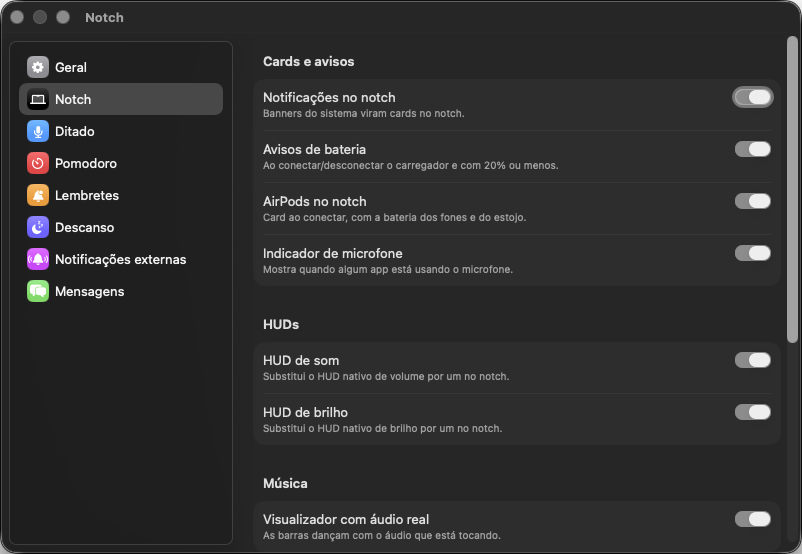
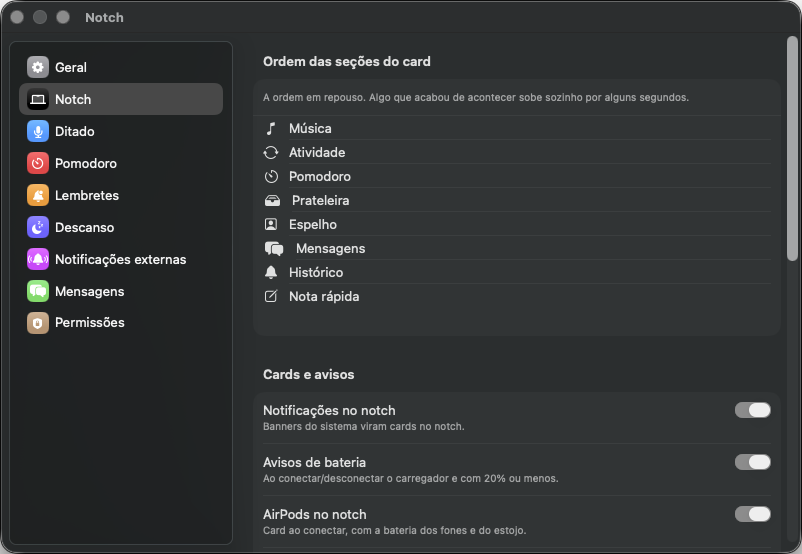
fix: recaptura o painel Notch, corrige contagem de PNGs e vocabulário velho
- docs/images/settings-notch.png era de antes da lista de ordem das seções
- docs/architecture.md citava NotchView.currentSize no lugar de alturaDaSecao
- CLAUDE.md: 53 PNGs no total, 49 determinísticos (recontado por md5)
- comentários com "cortina" e "aba Mensagens" nos sete arquivos que sobraram

Claude-Session: https://claude.ai/code/session_01MinJj9ahV381dmz6ZMNra1

diff --git a/Knobler/KnoblerApp.swift b/Knobler/KnoblerApp.swift
@@ -107,8 +107,8 @@ final class AppDelegate: NSObject, NSApplicationDelegate, NSMenuDelegate {
     private var scrollAccumX: CGFloat = 0
     private var scrollAccumY: CGFloat = 0
     private var scrollActed = false
-    /// Gesto que COMEÇOU com uma lista rolável na cortina rola a lista, não age
-    /// no notch. Sem isso, o mesmo puxão que abre o histórico seguiria rolando.
+    /// Gesto que COMEÇOU com uma lista rolável no card rola a lista, não age
+    /// no notch. Sem isso, o mesmo puxão seguiria trocando a seção em foco.
     private var scrollStartedInHistory = false
     /// Timestamp e zona do último evento de scroll — é com eles que
     /// `NotchGesture.isGestureStart` reconhece começo de gesto sem `.began`
@@ -672,7 +672,7 @@ final class AppDelegate: NSObject, NSApplicationDelegate, NSMenuDelegate {
         }
 
         // o reset vem antes de tudo: um gesto que começa precisa resincronizar
-        // o próprio estado mesmo que a cortina tenha fechado por fora (o
+        // o próprio estado mesmo que o card tenha fechado por fora (o
         // setHover fecha sozinho quando o mouse sai), senão a flag velha
         // engole o gesto novo inteiro
         let novoGesto = NotchGesture.isGestureStart(
@@ -862,7 +862,7 @@ final class AppDelegate: NSObject, NSApplicationDelegate, NSMenuDelegate {
                     Updater.shared.skipCurrent()
                     self?.notches.values.forEach { $0.viewModel.updateCard = false }
                 }
-                // Rede Local: liga o Bonjour quando o usuário abre a aba Mensagens
+                // Rede Local: liga o Bonjour quando Mensagens entra em foco no card
                 // (app ativo → prompt num momento sensato). start() é idempotente.
                 viewModel.$focus
                     .filter { $0 == .mensagens }

diff --git a/Knobler/HistoryListView.swift b/Knobler/HistoryListView.swift
@@ -2,13 +2,13 @@
 //  HistoryListView.swift
 //  Knobler
 //
-//  A cortina do histórico: o que virou card nas últimas 24 h.
+//  A seção de histórico do card: o que virou card nas últimas 24 h.
 //
 
 import SwiftUI
 
 struct HistoryListView: View {
-    /// Altura da cortina. É a MESMA constante que o `currentSize` da `NotchView`
+    /// Altura da seção de histórico. É a MESMA constante que a `NotchView`
     /// soma pra dimensionar o card — mudar aqui muda o card junto. Se ela virar
     /// duas, o card fica menor que a lista e as linhas de cima somem pra fora
     /// da tela (a `.frame` centraliza o que não cabe).
@@ -16,7 +16,7 @@ struct HistoryListView: View {
 
     @ObservedObject var history: NotificationHistory
     /// Chamado depois de abrir a origem: o card ao vivo se recolhe no clique e
-    /// a linha do histórico faz o mesmo — senão a cortina fica aberta atrás do
+    /// a linha do histórico faz o mesmo — senão o card fica aberto atrás do
     /// app que acabou de vir pra frente.
     var onOpen: () -> Void = {}
 

diff --git a/Knobler/NotchGesture.swift b/Knobler/NotchGesture.swift
@@ -51,13 +51,13 @@ enum NotchGesture {
         return mouseY >= screenMaxY - zoneHeight
     }
 
-    /// Um gesto está começando? O acumulador e a flag da cortina zeram aqui, e
+    /// Um gesto está começando? O acumulador e a flag da lista rolável zeram aqui, e
     /// sem isso os dois nunca zeram fora do trackpad.
     ///
     /// - `began`: o trackpad diz `.began`. É o único caso que o código antigo
     ///   reconhecia — e mouse de rodinha **não** emite fase nenhuma, então o
-    ///   acumulador crescia pra sempre (o usuário caía na cortina sem querer e
-    ///   só saía rolando centenas de pontos de volta) e a flag da cortina
+    ///   acumulador crescia pra sempre (o usuário trocava de seção sem querer e
+    ///   só saía rolando centenas de pontos de volta) e a flag da lista rolável
     ///   ficava presa em `false`, deixando a lista impossível de rolar.
     /// - `previousInZone == false`: gesto que começou fora da zona e entrou
     ///   arrastando — o `.began` dele foi descartado antes desta checagem, então

diff --git a/Knobler/NotchViewModel.swift b/Knobler/NotchViewModel.swift
@@ -112,7 +112,7 @@ final class NotchViewModel: ObservableObject {
     @Published var pendingAttachment: PendingAttachment?
     /// Última escolha falhou (formato/tamanho) — a view mostra o aviso.
     @Published var attachmentFailed = false
-    /// Conversa aberta na aba Mensagens (peerID) — nil = mostra a lista.
+    /// Conversa aberta na seção Mensagens (peerID) — nil = mostra a lista.
     /// Fonte da verdade da seleção (a MessagesView lê/escreve aqui) pra que
     /// `openThread` (clique no card) consiga abrir a conversa certa.
     @Published var selectedThreadPeerID: String?
@@ -380,7 +380,7 @@ final class NotchViewModel: ObservableObject {
         if let onDismissEverywhere { onDismissEverywhere() } else { dismissIncoming() }
     }
 
-    /// Abre a conversa daquele peer na aba Mensagens.
+    /// Abre a conversa daquele peer na seção Mensagens.
     func openThread(peerID: String) {
         requestDismissIncoming()
         selectedThreadPeerID = peerID

diff --git a/Knobler/NotificationHistory.swift b/Knobler/NotificationHistory.swift
@@ -25,7 +25,7 @@ final class NotificationHistory: ObservableObject {
     /// ponytail: teto duro de linhas. A poda por idade sozinha não segura uma
     /// fonte que emita `webhookID` distinto em rajada — em 24 h a lista cresce
     /// sem limite e o `record` é O(n) por inserção. 300 é muito mais do que
-    /// alguém lê numa cortina de 260 pt; quem precisar de mais precisa de
+    /// alguém lê numa seção de 260 pt; quem precisar de mais precisa de
     /// busca, não de teto maior.
     private let capacidade = 300
 

diff --git a/Knobler/IncomingMessageView.swift b/Knobler/IncomingMessageView.swift
@@ -3,7 +3,8 @@
 //  Knobler
 //
 //  Card que desce do notch quando chega uma mensagem LAN: foto + nome +
-//  texto e, se permitido, resposta rápida. Clicar abre a conversa na aba.
+//  texto e, se permitido, resposta rápida. Clicar abre a conversa na seção
+//  Mensagens.
 //
 
 import SwiftUI

diff --git a/CLAUDE.md b/CLAUDE.md
@@ -45,8 +45,8 @@ estado em `Snapshots/*.png` — é o jeito de "ver" a UI sem abrir o app.
 sem mudança nenhuma de código: `closed-music`, `closed-music-external`,
 `foco-atividade-indeterminada` e `update-installing` (visualizador animado,
 barra de progresso). Neles o snapshot é inspeção visual, não detector de
-regressão — não gaste tempo investigando o diff. Os outros 57 são
-byte-idênticos entre rodadas.
+regressão — não gaste tempo investigando o diff. O harness gera 53 PNGs no
+total; os outros 49 são byte-idênticos entre rodadas.
 
 ⚠ **Qualquer view que dependa de um `NSView` real (janela/WindowServer de
 verdade) não renderiza via `ImageRenderer` offscreen** — vira o ícone de

diff --git a/docs/architecture.md b/docs/architecture.md
@@ -84,7 +84,8 @@ alvo de clique da faixa. Clique num ícone ou swipe horizontal chamam
 de mensagem, por exemplo). A nota rápida é modo exclusivo: com ela em foco a
 faixa some.
 
-A altura do card é derivada do foco (`NotchView.currentSize` case `.music`) e
+A altura do card é derivada do foco (`NotchView.alturaDaSecao`, que o
+`currentSize` consome) e
 publicada em `NotchViewModel.alturaAtual`, que o monitor de scroll — fora do
 SwiftUI — usa pra delimitar a zona do gesto junto com `NotchGesture.folgaDeHover`.
 
